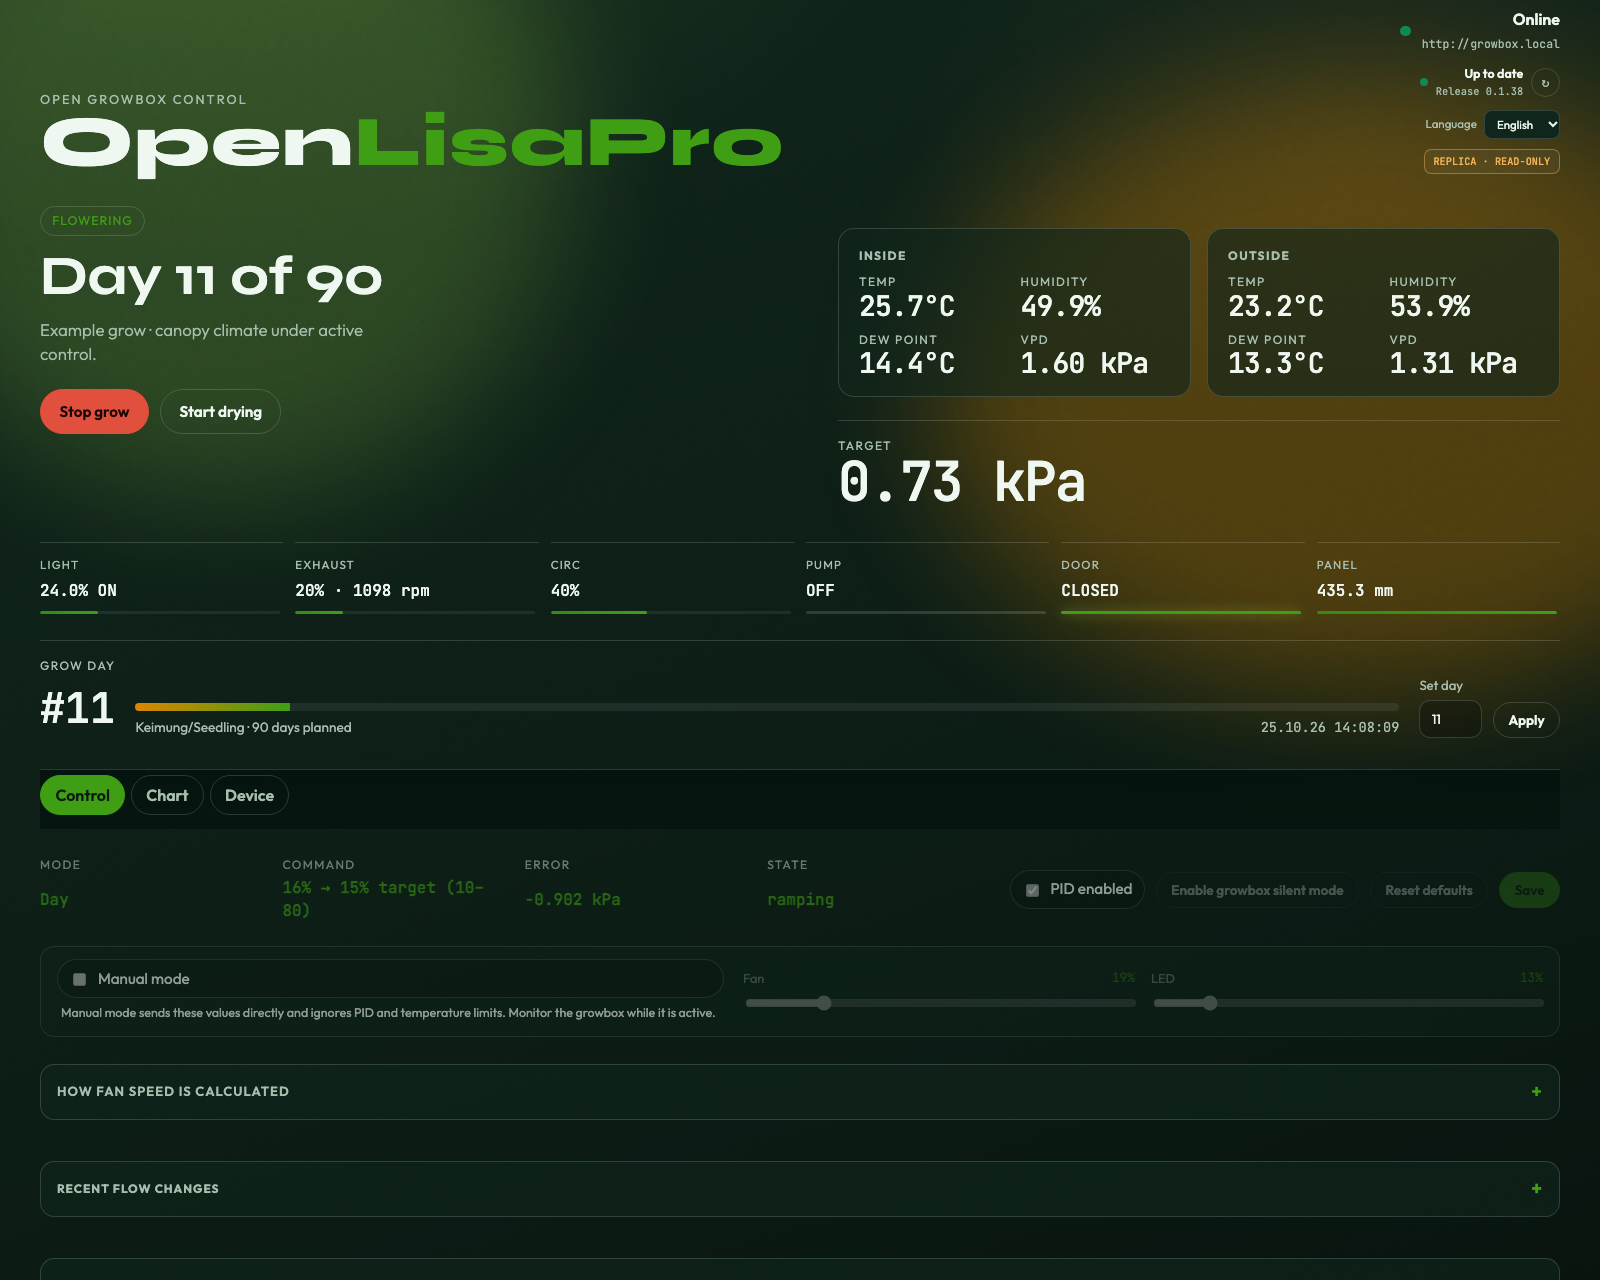
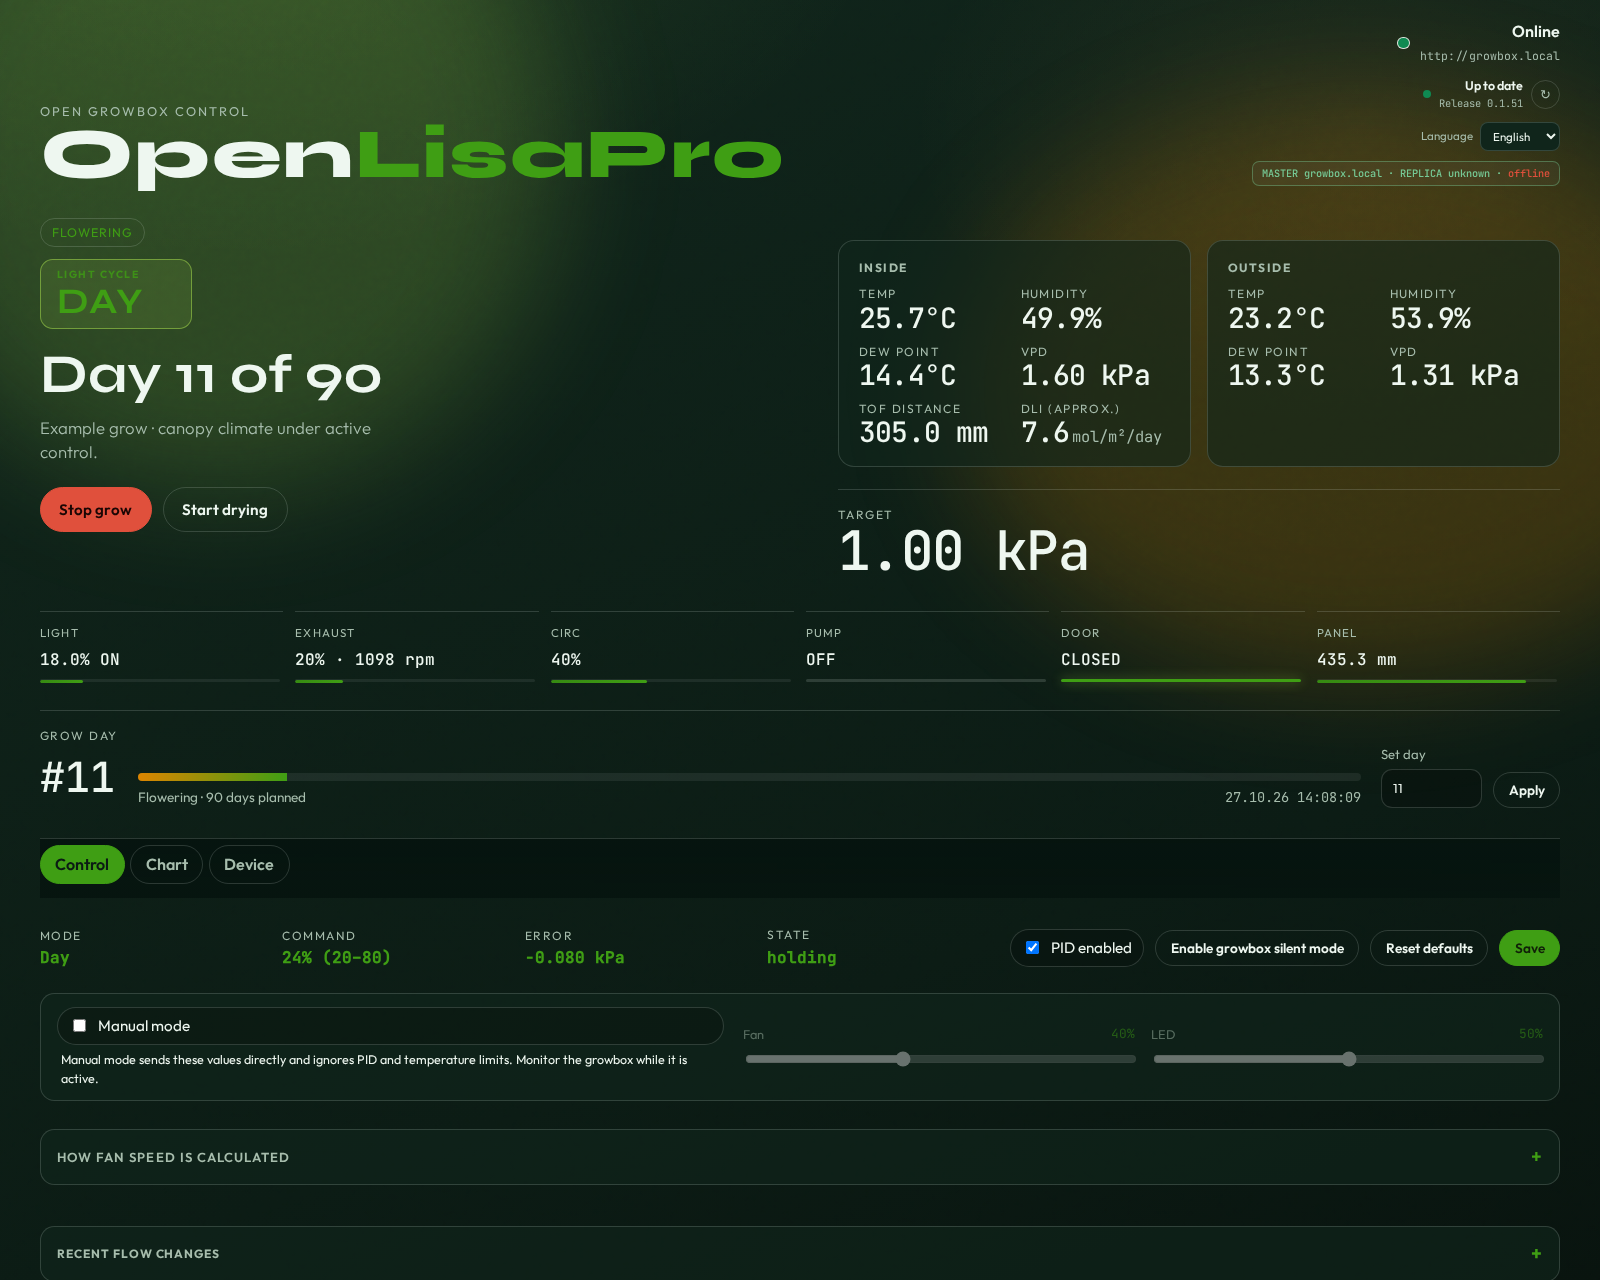
Release 0.1.51 with dashboard DLI estimate

diff --git a/src/lisa_pro_ui/static/js/app.js b/src/lisa_pro_ui/static/js/app.js
@@ -340,6 +340,8 @@
     $("vpdTarget").title = targetLimited
       ? "Requested target → achievable target estimated from outside dew point at inside temperature"
       : "Requested VPD target";
+    $("tofDistance").textContent = s.tof_mm == null ? "—" : `${fmt1(s.tof_mm)} mm`;
+    $("dliEstimateValue").textContent = s.dli_mol_m2_day == null ? "—" : fmt1(s.dli_mol_m2_day);
     $("tempOut").textContent = s.temp_out_c == null ? "—" : `${fmtSensor(s.temp_out_c)}°C`;
     $("humiOut").textContent = s.humi_out_rh == null ? "—" : `${fmtSensor(s.humi_out_rh)}%`;
     $("ledGlow").classList.toggle("on", !!s.light_on);
@@ -1341,6 +1343,35 @@
   async function refreshStatus() {
     try {
       const s = await api("/api/proxy/status");
+      state.status = s;
+      const phase = currentStagePhase();
+      const phaseId = phase && String(phase.id ?? 0);
+      const config = (state.control && state.control.config) || {};
+      const schedule = (config.phase_schedules && config.phase_schedules[phaseId]) || (phase && phase.schedule) || {};
+      if (phase && s.tof_mm != null && schedule.on && schedule.off) {
+        const ledModes = (config.led && config.led[phaseId]) || {};
+        const dayMode = ["day", "day_silent"].includes(state.control?.state?.mode)
+          ? state.control.state.mode
+          : "day";
+        const phaseDayLed = ((phase.settings || {}).day || {}).led;
+        const configuredLed = config.manual_mode
+          ? config.manual_led_pct
+          : ledModes[dayMode] ?? ledModes.day ?? phaseDayLed ?? 40;
+        const ledPct = config.manual_mode || !isDayForPhase(phase) || s.light_pct == null
+          ? configuredLed
+          : s.light_pct;
+        try {
+          const estimate = await api("/api/dli-estimate", {
+            method: "POST",
+            body: JSON.stringify({ tof_mm: s.tof_mm, led_pct: ledPct, on: schedule.on, off: schedule.off }),
+          });
+          s.dli_mol_m2_day = estimate.dli_mol_m2_day;
+        } catch (error) {
+          s.dli_mol_m2_day = null;
+        }
+      } else {
+        s.dli_mol_m2_day = null;
+      }
       renderStatus(s);
     } catch (err) {
       setLink(false, "Unreachable");

diff --git a/src/lisa_pro_ui/templates/index.html b/src/lisa_pro_ui/templates/index.html
@@ -85,6 +85,14 @@
                   <span class="label">VPD</span>
                   <span class="value mono" id="vpd">—</span>
                 </div>
+                <div class="reading xl">
+                  <span class="label">ToF distance</span>
+                  <span class="value mono" id="tofDistance">—</span>
+                </div>
+                <div class="reading xl">
+                  <span class="label" title="Estimated from the FluxShield Habibi 150 Enhanced PPFD table at 20–40 cm; assumes the current LED setting stays constant through the scheduled light period.">DLI (approx.)</span>
+                  <span class="value mono" id="dliEstimate"><span id="dliEstimateValue">—</span><small class="dli-unit">mol/m²/day</small></span>
+                </div>
               </div>
             </section>
             <section class="cluster">

diff --git a/src/lisa_pro_ui/static/css/app.css b/src/lisa_pro_ui/static/css/app.css
@@ -402,6 +402,15 @@ main > * { width: 100%; min-width: 0; max-width: 100%; }
   font-size: clamp(1.35rem, 2vw, 1.75rem);
 }
 
+.dli-unit {
+  color: var(--ink-dim);
+  font-size: 0.55em;
+  font-weight: 400;
+  letter-spacing: normal;
+  margin-left: 0.2em;
+  white-space: nowrap;
+}
+
 .reading .unit {
   color: var(--ink-dim);
   font-size: 0.95rem;

diff --git a/src/lisa_pro_ui/static/js/i18n.js b/src/lisa_pro_ui/static/js/i18n.js
@@ -47,6 +47,8 @@
       "Humidity": "Luftfeuchte",
       "Dew point": "Taupunkt",
       "Target": "Ziel",
+      "ToF distance": "ToF-Abstand",
+      "DLI (approx.)": "DLI (ca.)",
       "Light": "Licht",
       "Exhaust": "Abluft",
       "Circ": "Umluft",

diff --git a/src/lisa_pro_ui/lighting.py b/src/lisa_pro_ui/lighting.py
@@ -1,0 +1,66 @@
+"""Approximate DLI estimates for the FluxShield Habibi 150 Enhanced."""
+
+from __future__ import annotations
+
+import math
+
+# Datasheet PPFD table (µmol m⁻² s⁻¹), measured at the stated distance and dimmer.
+_DIMMING_PCT = (10, 20, 30, 40, 50, 60, 70, 80, 90, 100)
+_PPFD_BY_DISTANCE = {
+    200: (71, 156, 234, 311, 386, 460, 533, 605, 676, 746),
+    300: (65, 131, 195, 260, 322, 384, 446, 506, 565, 624),
+    400: (55, 109, 163, 217, 269, 321, 372, 423, 472, 520),
+}
+
+
+def _linear(value: float, points: tuple[float, ...], values: tuple[float, ...]) -> float:
+    if value <= points[0]:
+        return values[0]
+    for index in range(1, len(points)):
+        if value <= points[index]:
+            fraction = (value - points[index - 1]) / (points[index] - points[index - 1])
+            return values[index - 1] + fraction * (values[index] - values[index - 1])
+    return values[-1]
+
+
+def day_length_hours(on: object, off: object) -> float | None:
+    """Return scheduled light hours, including overnight schedules; equal times means 24 h."""
+    def minutes(value: object) -> int | None:
+        if not isinstance(value, str) or len(value) != 5 or value[2] != ":":
+            return None
+        try:
+            hour, minute = (int(part) for part in value.split(":"))
+        except ValueError:
+            return None
+        if not (0 <= hour < 24 and 0 <= minute < 60):
+            return None
+        return hour * 60 + minute
+
+    start, end = minutes(on), minutes(off)
+    if start is None or end is None:
+        return None
+    return ((end - start) % 1440 or 1440) / 60
+
+
+def estimate_dli(tof_mm: object, led_pct: object, on: object, off: object) -> float | None:
+    """Estimate mol m⁻² day⁻¹ within the datasheet's measured ranges only."""
+    hours = day_length_hours(on, off)
+    try:
+        distance = float(tof_mm)
+        dimming = float(led_pct)
+    except (TypeError, ValueError):
+        return None
+    if not math.isfinite(distance) or not math.isfinite(dimming):
+        return None
+    if not (200 <= distance <= 400 and 0 <= dimming <= 100) or hours is None:
+        return None
+    if dimming == 0:
+        return 0.0
+
+    lower = max(measured_distance for measured_distance in _PPFD_BY_DISTANCE if measured_distance <= distance)
+    upper = min(measured_distance for measured_distance in _PPFD_BY_DISTANCE if measured_distance >= distance)
+    dimming_points = (0, *_DIMMING_PCT)
+    lower_ppfd = _linear(dimming, dimming_points, (0, *_PPFD_BY_DISTANCE[lower]))
+    upper_ppfd = _linear(dimming, dimming_points, (0, *_PPFD_BY_DISTANCE[upper]))
+    ppfd = lower_ppfd if lower == upper else _linear(distance, (lower, upper), (lower_ppfd, upper_ppfd))
+    return ppfd * hours * 3600 / 1_000_000

diff --git a/src/lisa_pro_ui/app.py b/src/lisa_pro_ui/app.py
@@ -25,6 +25,7 @@ from flask import Flask, Response, jsonify, render_template, request, stream_wit
 from lisa_pro_ui.client import DEFAULT_BASE_URL, LisaProClient, LisaProError
 from lisa_pro_ui.config_store import ConfigStore
 from lisa_pro_ui.controller import FanPidController
+from lisa_pro_ui.lighting import estimate_dli
 from lisa_pro_ui.telemetry import TelemetryStore
 
 PACKAGE_DIR = Path(__file__).resolve().parent
@@ -163,13 +164,6 @@ def create_app(
         if healthy and previous_role == "primary" and changed:
             apply_master_config_to_device()
         if healthy:
-            heartbeat_body = {"node_name": app.config["HA_NODE_NAME"], "node_url": app.config["HA_NODE_URL"]}
-            heartbeat = Request(f"{master_url}/api/ha/heartbeat", data=json.dumps(heartbeat_body).encode(), headers={"Content-Type": "application/json"}, method="POST")
-            try:
-                with urlopen(heartbeat, timeout=3):
-                    pass
-            except Exception as exc:  # noqa: BLE001 — heartbeat problems do not override the authoritative snapshot result
-                app.logger.warning("HA master heartbeat failed: %s", exc)
             try:
                 measurement_id, flow_event_id = telemetry.replication_cursor(master_url)
                 sync_req = Request(
@@ -180,6 +174,13 @@ def create_app(
                     telemetry.import_replication_batch(master_url, json.loads(response.read().decode("utf-8")))
             except Exception as exc:  # noqa: BLE001 — history replication cannot make a healthy primary look offline
                 app.logger.warning("HA history sync failed: %s", exc)
+            heartbeat_body = {"node_name": app.config["HA_NODE_NAME"], "node_url": app.config["HA_NODE_URL"]}
+            heartbeat = Request(f"{master_url}/api/ha/heartbeat", data=json.dumps(heartbeat_body).encode(), headers={"Content-Type": "application/json"}, method="POST")
+            try:
+                with urlopen(heartbeat, timeout=3):
+                    pass
+            except Exception as exc:  # noqa: BLE001 — heartbeat problems do not override the authoritative snapshot result
+                app.logger.warning("HA master heartbeat failed: %s", exc)
         return healthy
 
     def monitor_master():
@@ -684,6 +685,12 @@ def create_app(
                 return _ok(c.status())
         except Exception as exc:
             return _err(exc)
+
+    @app.post("/api/dli-estimate")
+    def dli_estimate():
+        body = request.get_json(force=True, silent=True) or {}
+        estimate = estimate_dli(body.get("tof_mm"), body.get("led_pct"), body.get("on"), body.get("off"))
+        return jsonify({"dli_mol_m2_day": estimate})
 
     @app.get("/api/proxy/info")
     def proxy_info():

diff --git a/tests/test_lighting.py b/tests/test_lighting.py
@@ -1,0 +1,53 @@
+import pytest
+
+from lisa_pro_ui.app import create_app
+from lisa_pro_ui.lighting import day_length_hours, estimate_dli
+
+
+@pytest.mark.parametrize(
+    ("on", "off", "expected"),
+    [("06:00", "18:00", 12), ("18:00", "06:00", 12), ("06:00", "06:00", 24)],
+)
+def test_day_length_hours_handles_normal_overnight_and_full_day(on, off, expected):
+    assert day_length_hours(on, off) == expected
+
+
+def test_dli_uses_datasheet_ppfd_and_scheduled_day_length():
+    # Datasheet: 746 µmol m⁻² s⁻¹ at 20 cm and 100% dimming; 12 light hours.
+    assert estimate_dli(200, 100, "06:00", "18:00") == pytest.approx(32.2272)
+
+
+def test_dli_interpolates_distance_and_dimming_values():
+    # At 50%, the datasheet gives 386 at 20 cm and 322 at 30 cm.
+    # At 25 cm the estimate is 354; 12 hours gives 15.2928 mol m⁻² day⁻¹.
+    assert estimate_dli(250, 50, "06:00", "18:00") == pytest.approx(15.2928)
+
+
+@pytest.mark.parametrize(
+    ("tof_mm", "led_pct", "on", "off"),
+    [
+        (199, 50, "06:00", "18:00"),
+        (401, 50, "06:00", "18:00"),
+        (300, 101, "06:00", "18:00"),
+        (300, 50, "invalid", "18:00"),
+        (None, 50, "06:00", "18:00"),
+    ],
+)
+def test_dli_is_unavailable_outside_measured_or_valid_inputs(tof_mm, led_pct, on, off):
+    assert estimate_dli(tof_mm, led_pct, on, off) is None
+
+
+def test_zero_led_produces_zero_dli():
+    assert estimate_dli(300, 0, "06:00", "18:00") == 0
+
+
+def test_dli_estimate_api_returns_datasheet_based_value(tmp_path):
+    app = create_app(data_dir=tmp_path, start_controller=False)
+
+    response = app.test_client().post(
+        "/api/dli-estimate",
+        json={"tof_mm": 200, "led_pct": 100, "on": "06:00", "off": "18:00"},
+    )
+
+    assert response.status_code == 200
+    assert response.get_json()["dli_mol_m2_day"] == pytest.approx(32.2272)

diff --git a/tests/test_dashboard_tof.py b/tests/test_dashboard_tof.py
@@ -1,0 +1,22 @@
+from pathlib import Path
+
+from lisa_pro_ui.app import create_app
+
+
+def test_dashboard_includes_tof_distance_metric_and_german_translation(tmp_path):
+    app = create_app(data_dir=tmp_path, start_controller=False)
+
+    response = app.test_client().get("/")
+
+    assert response.status_code == 200
+    assert b'ToF distance' in response.data
+    assert b'id="tofDistance"' in response.data
+    assert b'DLI (approx.)' in response.data
+    assert b'id="dliEstimate"' in response.data
+
+    assets = Path(__file__).parents[1] / "src" / "lisa_pro_ui" / "static"
+    script = (assets / "js" / "app.js").read_text()
+    translations = (assets / "js" / "i18n.js").read_text()
+    assert 's.tof_mm == null ? "—"' in script
+    assert '"ToF distance": "ToF-Abstand"' in translations
+    assert '"DLI (approx.)": "DLI (ca.)"' in translations

diff --git a/CHANGELOG.md b/CHANGELOG.md
@@ -2,6 +2,31 @@
 
 Notable changes to OpenLisaPro are recorded here. Dates use the release day.
 
+## [0.1.51] - 2026-10-27
+
+### Changed
+
+- Add an approximate DLI dashboard reading based on ToF distance, LED output, and the active stage's light schedule; size its unit to fit beside the value.
+- Use smaller type for the DLI unit so it fits beside the reading.
+
+## [0.1.50] - 2026-10-27
+
+### Added
+
+- Estimate daily light integral from FluxShield Habibi 150 Enhanced PPFD data, ToF distance, LED setting, and the active phase's light schedule.
+
+## [0.1.49] - 2026-10-27
+
+### Fixed
+
+- Sync replica history before sending its heartbeat to the primary.
+
+## [0.1.48] - 2026-10-27
+
+### Added
+
+- Show the device's ToF distance metric on the dashboard, with a German translation.
+
 ## [0.1.47] - 2026-10-26
 
 ### Changed

diff --git a/README.de.md b/README.de.md
@@ -9,6 +9,7 @@ Der Browser kommuniziert mit der lokalen Flask-Anwendung, die Anfragen an die Gr
 ## Funktionen
 
 - Temperatur, Luftfeuchtigkeit, Taupunkt, VPD, Wachstumsphase und Gerätestatus innen und außen überwachen.
+- Die tägliche Lichtmenge (DLI) anhand von ToF-Abstand, LED-Leistung, Lichtplan der aktiven Phase und den PPFD-Daten des FluxShield Habibi 150 Enhanced schätzen.
 - Lüftergrenzen, VPD-Ziele, Temperaturgrenzen, LED-Stufen und Lichtpläne je Wachstumsphase konfigurieren.
 - Optional die Abluftgeschwindigkeit mit einem lokalen PID-Regler und Temperaturschutz steuern.
 - Im vollständigen manuellen Modus Lüfter- und LED-Prozentwerte direkt vorgeben; PID-Regelung und Temperaturüberschreibungen werden dabei umgangen.

diff --git a/README.md b/README.md
@@ -9,6 +9,7 @@ The browser communicates with the local Flask app, which proxies requests to the
 ## Features
 
 - Monitor inside and outside temperature, humidity, dew point, VPD, grow stage, and device status.
+- Estimate daily light integral (DLI) from ToF distance, LED output, the active phase's light schedule, and FluxShield Habibi 150 Enhanced PPFD data.
 - Configure per-stage fan limits, VPD targets, temperature limits, LED levels, and light schedules.
 - Optionally control exhaust fan speed with a local PID loop and temperature protection.
 - Use complete manual mode to set fan and LED percentages directly, bypassing PID and temperature overrides.
